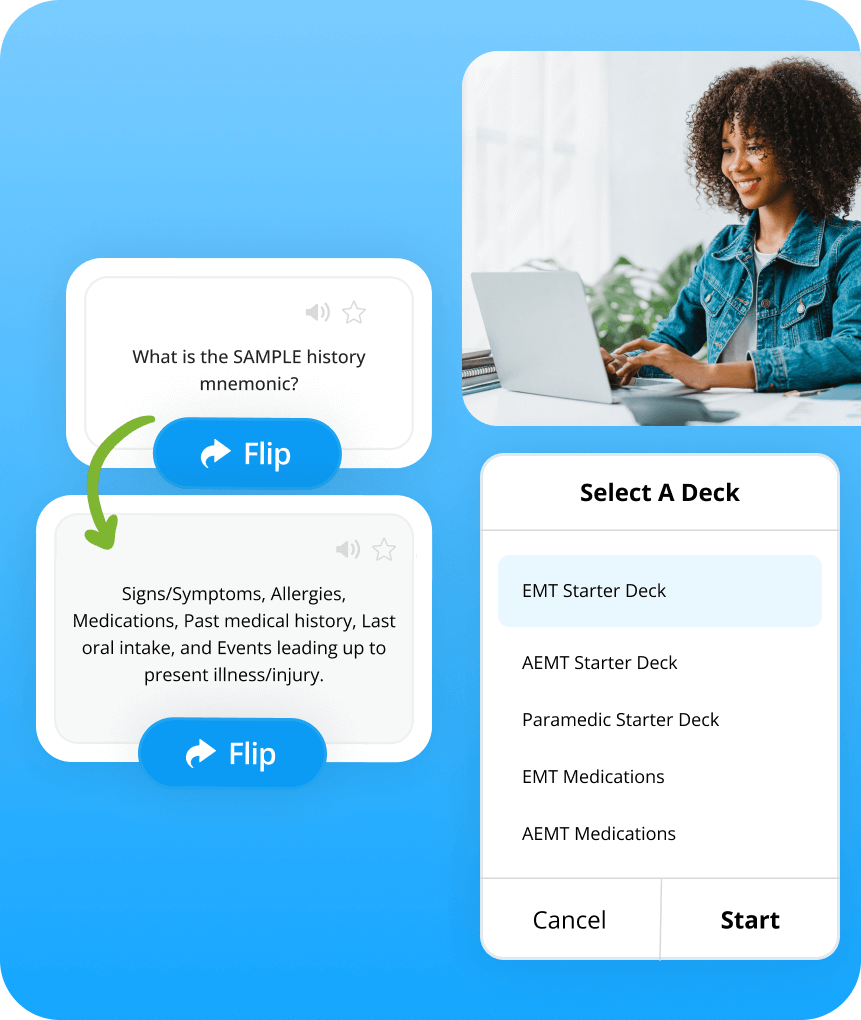
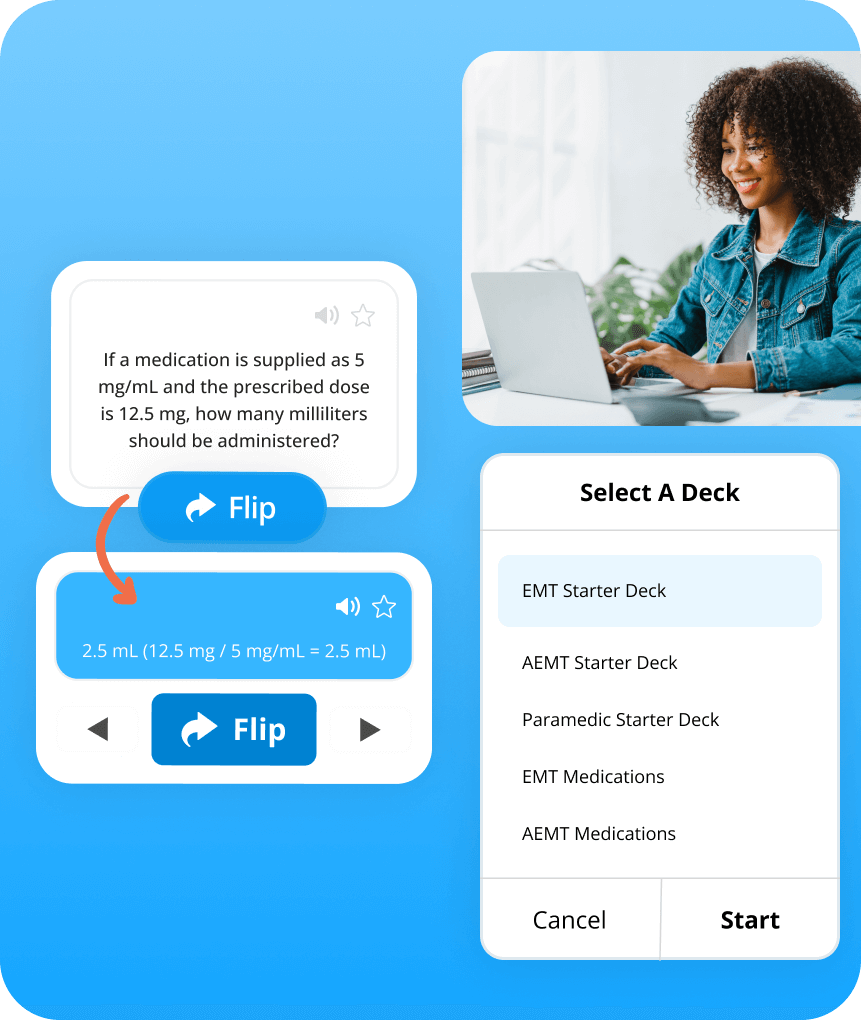
feat(emssoftware): reorder contents and change image of rapid learning

Changed region(s): [[0.0302, 0.2431, 0.5134, 0.7902], [0.4228, 0.2431, 0.5134, 0.4559]]

diff --git a/src/template/index.html b/src/template/index.html
@@ -277,12 +277,12 @@
       <div class="row d-none d-lg-block py-4">
         <div class="col">
           <div class="emssoftware-navbar">
-            <button class="emssoftware-navbar-item active" type="button" data-bs-target="#emssoftware-accordion-one" aria-expanded="true" aria-controls="emssoftware-accordion-one">New Provider Levels!</button>
+            <button class="emssoftware-navbar-item active" type="button" data-bs-target="#emssoftware-accordion-six" aria-expanded="true" aria-controls="emssoftware-accordion-six">New NREMT Scoring & Scenarios</button>
+            <button class="emssoftware-navbar-item " type="button" data-bs-target="#emssoftware-accordion-one" aria-expanded="true" aria-controls="emssoftware-accordion-one">New Provider Levels!</button>
             <button class="emssoftware-navbar-item" type="button" data-bs-target="#emssoftware-accordion-two" aria-expanded="true" aria-controls="emssoftware-accordion-two">New AI Medic Tutor</button>
             <button class="emssoftware-navbar-item" type="button" data-bs-target="#emssoftware-accordion-three" aria-expanded="true" aria-controls="emssoftware-accordion-three">The Brand New Call Simulator</button>
-            <button class="emssoftware-navbar-item" type="button" data-bs-target="#emssoftware-accordion-four" aria-expanded="true" aria-controls="emssoftware-accordion-four">Audio Playback of Reference Units</button>
             <button class="emssoftware-navbar-item" type="button" data-bs-target="#emssoftware-accordion-five" aria-expanded="true" aria-controls="emssoftware-accordion-five">Rapid Learning FLASH Cards</button>
-            <button class="emssoftware-navbar-item" type="button" data-bs-target="#emssoftware-accordion-six" aria-expanded="true" aria-controls="emssoftware-accordion-six">New NREMT Scoring & Scenarios</button>
+            <button class="emssoftware-navbar-item" type="button" data-bs-target="#emssoftware-accordion-four" aria-expanded="true" aria-controls="emssoftware-accordion-four">Audio Playback of Reference Units</button>
           </div>
         </div>
       </div>
@@ -291,9 +291,33 @@
           <div id="emssoftware-accordion" class="accordion w-100">
             <div class="accordion-item active">
               <h2 class="accordion-header d-lg-none" id="emssoftware-accordion-heading-one">
-                <button class="accordion-button" type="button" data-bs-toggle="collapse" data-bs-target="#emssoftware-accordion-one" aria-expanded="true" aria-controls="emssoftware-accordion-one">Critical Care & Flight Paramedic provider levels now available!</button>
+                <button class="accordion-button" type="button" data-bs-toggle="collapse" data-bs-target="#emssoftware-accordion-one" aria-expanded="true" aria-controls="emssoftware-accordion-one">New NREMT Scoring & Scenarios</button>
               </h2>
               <div id="emssoftware-accordion-one" class="accordion-collapse collapse show" aria-labelledby="emssoftware-accordion-heading-one" data-bs-parent="#emssoftware-accordion">
+                <div class="accordion-body">
+                  <picture class="order-lg-3">
+                    <source
+                      srcset="assets/img/emssoftware-6-mobile.png"
+                      media="(max-width: 575px)"
+                    >
+                    <source
+                      srcset="assets/img/emssoftware-6-desktop.png"
+                      media="(min-width: 576px)"
+                    >
+                    <img src="assets/img/emssoftware-6-mobile.png" alt="Lorem ipsum dolor sit amet, consectetur adipisicing elit, sed do" class="img emssoftware-accordion-img">
+                  </picture>
+                  <div class="emssoftware-accordion-text">
+                    <h3 class="d-none d-lg-block">New NREMT Scoring & Scenarios</h3>
+                    <p>Prepare for the latest NREMT certification standards with the 2024 NREMT updated scoring system, scenarios, and TEIs.</p>
+                  </div>
+                </div>
+              </div>
+            </div>
+            <div class="accordion-item">
+              <h2 class="accordion-header d-lg-none" id="emssoftware-accordion-heading-two">
+                <button class="accordion-button collapsed" type="button" data-bs-toggle="collapse" data-bs-target="#emssoftware-accordion-two" aria-expanded="true" aria-controls="emssoftware-accordion-two">Critical Care & Flight Paramedic provider levels now available!</button>
+              </h2>
+              <div id="emssoftware-accordion-two" class="accordion-collapse collapse" aria-labelledby="emssoftware-accordion-heading-two" data-bs-parent="#emssoftware-accordion">
                 <div class="accordion-body">
                   <picture class="order-lg-3">
                     <source
@@ -314,10 +338,10 @@
               </div>
             </div>
             <div class="accordion-item">
-              <h2 class="accordion-header d-lg-none" id="emssoftware-accordion-heading-two">
-                <button class="accordion-button collapsed" type="button" data-bs-toggle="collapse" data-bs-target="#emssoftware-accordion-two" aria-expanded="true" aria-controls="emssoftware-accordion-two">Meet Mack, Your Personal AI Medic Tutor</button>
+              <h2 class="accordion-header d-lg-none" id="emssoftware-accordion-heading-three">
+                <button class="accordion-button collapsed" type="button" data-bs-toggle="collapse" data-bs-target="#emssoftware-accordion-three" aria-expanded="true" aria-controls="emssoftware-accordion-three">Meet Mack, Your Personal AI Medic Tutor</button>
               </h2>
-              <div id="emssoftware-accordion-two" class="accordion-collapse collapse" aria-labelledby="emssoftware-accordion-heading-two" data-bs-parent="#emssoftware-accordion">
+              <div id="emssoftware-accordion-three" class="accordion-collapse collapse" aria-labelledby="emssoftware-accordion-heading-three" data-bs-parent="#emssoftware-accordion">
                 <div class="accordion-body">
                   <picture class="order-lg-3">
                     <source
@@ -339,10 +363,10 @@
               </div>
             </div>
             <div class="accordion-item">
-              <h2 class="accordion-header d-lg-none" id="emssoftware-accordion-heading-three">
-                <button class="accordion-button collapsed" type="button" data-bs-toggle="collapse" data-bs-target="#emssoftware-accordion-three" aria-expanded="true" aria-controls="emssoftware-accordion-three">The MedicTests Call Simulator lets you play a simulated EMS career, run calls, and save lives!</button>
+              <h2 class="accordion-header d-lg-none" id="emssoftware-accordion-heading-four">
+                <button class="accordion-button collapsed" type="button" data-bs-toggle="collapse" data-bs-target="#emssoftware-accordion-four" aria-expanded="true" aria-controls="emssoftware-accordion-four">The MedicTests Call Simulator lets you play a simulated EMS career, run calls, and save lives!</button>
               </h2>
-              <div id="emssoftware-accordion-three" class="accordion-collapse collapse" aria-labelledby="emssoftware-accordion-heading-three" data-bs-parent="#emssoftware-accordion">
+              <div id="emssoftware-accordion-four" class="accordion-collapse collapse" aria-labelledby="emssoftware-accordion-heading-four" data-bs-parent="#emssoftware-accordion">
                 <div class="accordion-body">
                   <picture class="order-lg-3">
                     <source
@@ -358,34 +382,6 @@
                   <div class="emssoftware-accordion-text">
                     <h3 class="d-none d-lg-block">The MedicTests Call Simulator lets you play a simulated EMS career, run calls, and save lives!</h3>
                     <p>Run emergency calls, gain experience, and advance through the ranks, from Rookie to Old Salty Gremlin! Each scenario immerses you in real-world situations where your decisions impact patient outcomes and feedback! Whether you're responding to cardiac arrest, strokes, or traumatic injuries, you'll make real-time decisions just like you would in the field.</p>
-                  </div>
-                </div>
-              </div>
-            </div>
-            <div class="accordion-item">
-              <h2 class="accordion-header d-lg-none" id="emssoftware-accordion-heading-four">
-                <button class="accordion-button collapsed" type="button" data-bs-toggle="collapse" data-bs-target="#emssoftware-accordion-four" aria-expanded="true" aria-controls="emssoftware-accordion-four">Perfect for commutes: 750+ units with audio and adjustable playback speed</button>
-              </h2>
-              <div id="emssoftware-accordion-four" class="accordion-collapse collapse" aria-labelledby="emssoftware-accordion-heading-four" data-bs-parent="#emssoftware-accordion">
-                <div class="accordion-body">
-                  <picture class="order-lg-3">
-                    <source
-                      srcset="assets/img/emssoftware-4-mobile.png"
-                      media="(max-width: 575px)"
-                    >
-                    <source
-                      srcset="assets/img/emssoftware-4-desktop.png"
-                      media="(min-width: 576px)"
-                    >
-                    <img src="assets/img/emssoftware-4-mobile.png" alt="Perfect for commutes: 750+ units with audio and adjustable playback speed" class="img emssoftware-accordion-img">
-                  </picture>
-                  <div class="emssoftware-accordion-text">
-                    <h3 class="d-none d-lg-block">Perfect for commutes: 750+ units with audio and adjustable playback speed</h3>
-                    <p><strong>Simple Activation:</strong> Click the speaker icon to start. Adjustable playback speeds!</p>
-                    <p><strong>Flexible Learning:</strong> Ideal for passive learning during commutes, workouts, and other activities.</p>
-                    <p><strong>Supports Auditory Learners:</strong> Great for those who prefer listening over reading.</p>
-                    <p><strong>Enhanced Retention:</strong> Maximizes study time and information retention.</p>
-                    <p><strong>Convenient Access:</strong> Learn anytime, anywhere, without being screen-bound.</p>
                   </div>
                 </div>
               </div>
@@ -409,8 +405,7 @@
                   </picture>
                   <div class="emssoftware-accordion-text">
                     <h3 class="d-none d-lg-block">Rapid learning flash cards</h3>
-                    <p>MedicTests is proud to introduce our <strong>Rapid Learning Flash Cards</strong> feature, designed to enhance your EMS education with focused and effective study tools. These flashcards use spaced repetition to strengthen memory and retention, helping you master common critical presentations.</p>
-                    <p><strong>ECG Flashcards:</strong> Includes details and images of 3-lead ECGs, with comprehensive descriptions and answers to rapidly boost your interpretation skills.</p>
+                    <p>MedicTests is proud to introduce our Rapid Learning Flash Cards feature, designed to enhance your EMS education with focused and effective study tools. These flashcards use spaced repetition to strengthen memory and retention, helping you master common critical presentations.</p>
                     <p><strong>Symptom Blitz Flashcards:</strong> Quickly match common symptoms and injury patterns with likely diagnoses and speed up your diagnostic abilities in the field!</p>
                     <p><strong>Medication Administration Flashcards:</strong> Review dosages, indications, pharmacokinetics, mechanisms of action, and contraindications in rapid succession!</p>
                   </div>
@@ -419,24 +414,28 @@
             </div>
             <div class="accordion-item">
               <h2 class="accordion-header d-lg-none" id="emssoftware-accordion-heading-six">
-                <button class="accordion-button collapsed" type="button" data-bs-toggle="collapse" data-bs-target="#emssoftware-accordion-six" aria-expanded="true" aria-controls="emssoftware-accordion-six">New NREMT Scoring & Scenarios</button>
+                <button class="accordion-button collapsed" type="button" data-bs-toggle="collapse" data-bs-target="#emssoftware-accordion-six" aria-expanded="true" aria-controls="emssoftware-accordion-six">Perfect for commutes: 750+ units with audio and adjustable playback speed</button>
               </h2>
               <div id="emssoftware-accordion-six" class="accordion-collapse collapse" aria-labelledby="emssoftware-accordion-heading-six" data-bs-parent="#emssoftware-accordion">
                 <div class="accordion-body">
                   <picture class="order-lg-3">
                     <source
-                      srcset="assets/img/emssoftware-6-mobile.png"
+                      srcset="assets/img/emssoftware-4-mobile.png"
                       media="(max-width: 575px)"
                     >
                     <source
-                      srcset="assets/img/emssoftware-6-desktop.png"
+                      srcset="assets/img/emssoftware-4-desktop.png"
                       media="(min-width: 576px)"
                     >
-                    <img src="assets/img/emssoftware-6-mobile.png" alt="Lorem ipsum dolor sit amet, consectetur adipisicing elit, sed do" class="img emssoftware-accordion-img">
+                    <img src="assets/img/emssoftware-4-mobile.png" alt="Perfect for commutes: 750+ units with audio and adjustable playback speed" class="img emssoftware-accordion-img">
                   </picture>
                   <div class="emssoftware-accordion-text">
-                    <h3 class="d-none d-lg-block">New NREMT Scoring & Scenarios</h3>
-                    <p>Prepare for the latest NREMT certification standards with the 2024 NREMT updated scoring system, scenarios, and TEIs.</p>
+                    <h3 class="d-none d-lg-block">Perfect for commutes: 750+ units with audio and adjustable playback speed</h3>
+                    <p><strong>Simple Activation:</strong> Click the speaker icon to start. Adjustable playback speeds!</p>
+                    <p><strong>Flexible Learning:</strong> Ideal for passive learning during commutes, workouts, and other activities.</p>
+                    <p><strong>Supports Auditory Learners:</strong> Great for those who prefer listening over reading.</p>
+                    <p><strong>Enhanced Retention:</strong> Maximizes study time and information retention.</p>
+                    <p><strong>Convenient Access:</strong> Learn anytime, anywhere, without being screen-bound.</p>
                   </div>
                 </div>
               </div>
